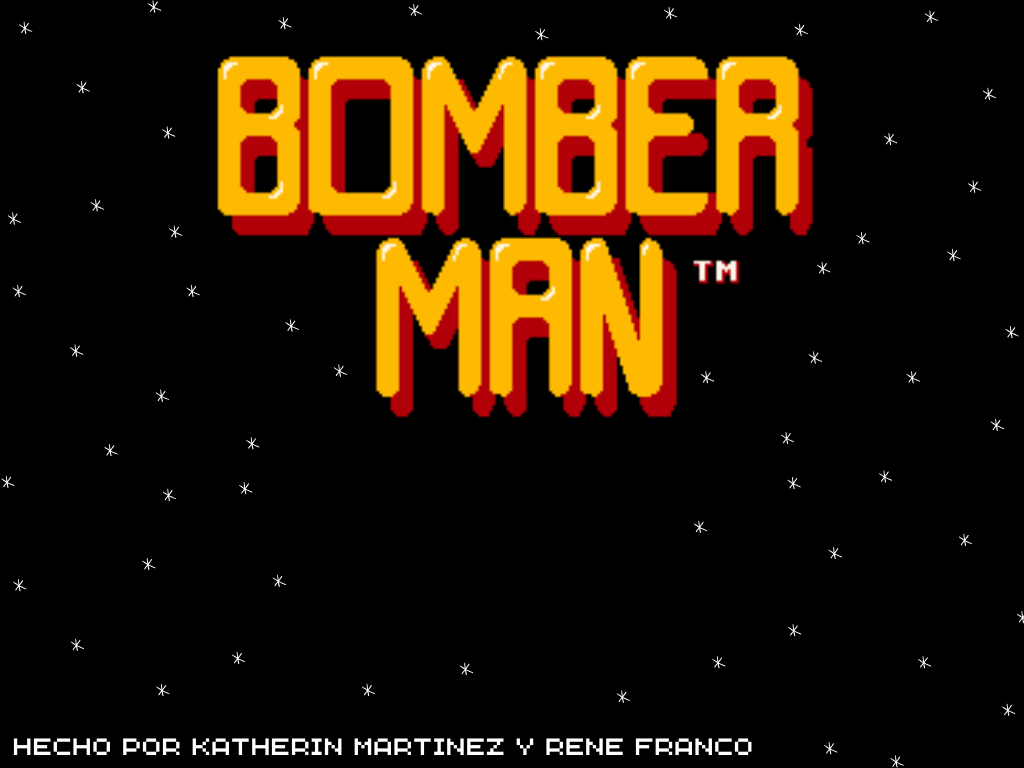
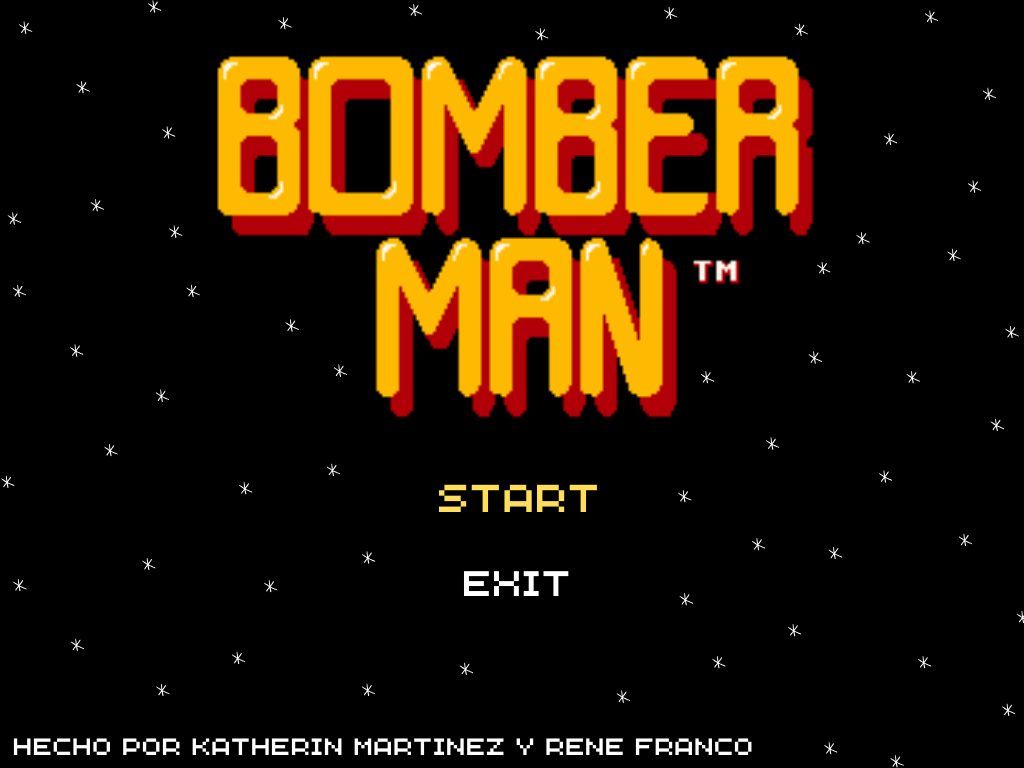
menu-play-states

diff --git a/src/bomberman/game/states/menu_state.py b/src/bomberman/game/states/menu_state.py
@@ -4,14 +4,63 @@ from pathlib import Path
 pygame.init()
 
 class menu_state:
+    
     def __init__(self):
 
         GAME_DIR = Path(__file__).resolve().parent 
         ASSETS_DIR = GAME_DIR.parents[1] / "assets" / "images" / "menu"
-        MENU_IMAGE_PATH = ASSETS_DIR / "menu.png"
 
-        self.background = pygame.image.load(str(MENU_IMAGE_PATH)).convert()
+        self.background = pygame.image.load(str(ASSETS_DIR/ "menu.png")).convert()
         self.rect = self.background.get_rect()
+
+        self.start_image = pygame.image.load(str(ASSETS_DIR / "start.png")).convert()
+        self.start_rect = self.start_image.get_rect()
+
+        self.start_rect.x = 436.3
+        self.start_rect.y = 476.5
+
+        self.start_image2 = pygame.image.load(str(ASSETS_DIR / "start2.png")).convert()
+        self.actual_start_image = self.start_image
+
+        self.exit_image = pygame.image.load(str(ASSETS_DIR / "exit.png")).convert()
+        self.exit_rect = self.exit_image.get_rect()
+
+        self.exit_rect.x = 438.3
+        self.exit_rect.y = 564
+
+        self.exit_image2 = pygame.image.load(str(ASSETS_DIR / "exit2.png")).convert()
+        self.actual_exit_image = self.exit_image
 
     def render(self, surface):
         surface.blit(self.background, self.rect)
+        surface.blit(self.actual_start_image, self.start_rect)
+        surface.blit(self.actual_exit_image, self.exit_rect)
+
+
+    def update(self, dt):
+        mouse_pos = pygame.mouse.get_pos()
+
+        if self.start_rect.collidepoint(mouse_pos):
+            self.actual_start_image = self.start_image2
+        else:
+            self.actual_start_image = self.start_image
+
+        if self.exit_rect.collidepoint(mouse_pos):
+            self.actual_exit_image = self.exit_image2
+        else:
+            self.actual_exit_image = self.exit_image
+
+    def handle_events(self, events):
+        for event in events:
+            if event.type == pygame.MOUSEBUTTONDOWN:
+                if event.button == 1:  
+                    if self.start_rect.collidepoint(event.pos):
+                        return "play"
+            
+
+        for event in events:
+            if event.type == pygame.MOUSEBUTTONDOWN:
+                if event.button == 1:  
+                    if self.exit_rect.collidepoint(event.pos):
+                        pygame.quit()
+        return None

diff --git a/src/bomberman/game/bomberman_game.py b/src/bomberman/game/bomberman_game.py
@@ -2,6 +2,7 @@ from arcade_machine_sdk import GameBase
 import pygame
 from bomberman.entities.player import Player
 from bomberman.game.states.menu_state import menu_state
+from bomberman.game.states.play_state import play_state
 
 
 
@@ -18,13 +19,17 @@ class BombermanGame(GameBase):
         self.player = Player()
     
     def handle_events(self, events):
+        next_state = self.state.handle_events(events)
+        if next_state == "play":
+            self.state = play_state()
+        
         for event in events:
             if event.type == pygame.KEYDOWN:
                 if event.key == pygame.K_ESCAPE:
                     self.stop()
 
     def update(self, dt):
-        self.player.update(dt)
+        self.state.update(dt)
 
     def render(self):
         self.state.render(self.surface)

diff --git a/src/bomberman/game/states/play_state.py b/src/bomberman/game/states/play_state.py
@@ -1,0 +1,23 @@
+import pygame
+
+pygame.init()
+
+class play_state:
+
+    def __init__(self):
+        pass
+
+    def start(self):
+        print("PlayState iniciado")
+
+    def handle_events(self, events):
+        pass
+
+    def update(self, dt):
+        pass
+
+    def render(self, surface):
+        surface.fill((20, 20, 60))
+        font = pygame.font.Font(None, 74)
+        text = font.render("PLAYING", True, (255, 255, 255))
+        surface.blit(text, (300, 250))
